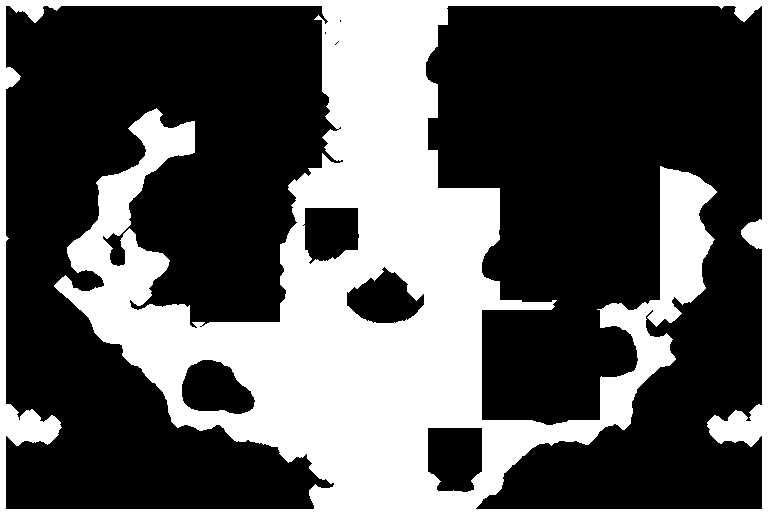
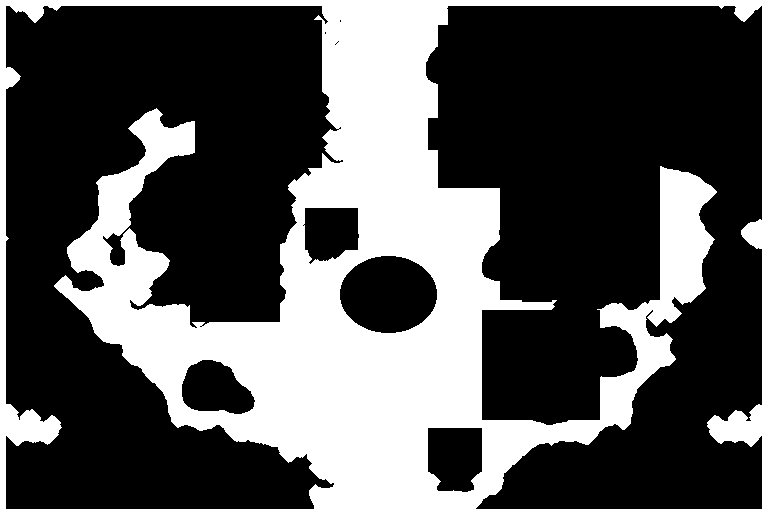
Tutorial en la mazmorra; fuente; visita; móvil y PC

Changed region(s): [[0.4375, 0.4971, 0.5938, 0.6524]]

diff --git a/client/js/game.js b/client/js/game.js
@@ -431,7 +431,8 @@ async function tutorial(skipAsk = false) {
   // 7) entrada a las mazmorras
   await tourWalk(384, 450); tourFace(0, 1);
   await tourSay(['Y aquí termina el recorrido. Por este sendero se sale a explorar las mazmorras.',
-                 'Empieza por el Bosque Frondoso. Cada 10 pisos podrás decidir si sigues adelante o vuelves.',
+                 'Empieza por el Campo de Entrenamiento: es la mazmorra para los nuevos. Cinco pisos… y al final, una sorpresa. ¡Ejem!',
+                 'Después vendrá el Bosque Frondoso. En las mazmorras largas, cada 10 pisos podrás decidir si sigues adelante o vuelves.',
                  `Si tienes dudas, búscame en el gremio, junto al tablón. ¡Espero mucho de ti, ${user.name}! ¡Por el honor del gremio!`]);
   // Chatot vuelve al gremio caminando
   if (state.tour && !state.tour.skip) { state.tour.trail = []; state.tour.follow = false; const g = state.tour.guide; state.tour.noFollow = true; await tourWalkAlone(384, 20); }
@@ -852,7 +853,7 @@ function restoreFloor(w) {
   state.dungeon = { ...w.dungeon, tiles: w.dungeon.tiles.map(r => [...r].map(c => c.charCodeAt(0) - 48)) };
   Object.assign(state, { enemies: w.enemies || [], groundItems: w.groundItems || [], npcs: w.npcs || [], monsterHouse: w.monsterHouse, shop: w.shop, weather: w.weather || 'none', era: w.era || def.id });
   state.seen = (w.seen || []).map(r => [...r].map(c => c === '1'));
-  showCard(def.name, `B${state.floor}F`); setTimeout(updateDungeonMusic, 0);
+  showCard(def.name, `B${state.floor}F`); setTimeout(updateDungeonMusic, 0); setTimeout(() => dungeonTips(), 1200);   // (tras el cartel del piso)
   updateVisibility(); render(); say('Continúas la exploración donde la dejaste.');
 }
 const runSnapshot = () => ({ where: floorSnapshot(), playMs: state.run?.playMs || 0, floor: state.floor, player: state.player, team: state.team, inventory: state.inventory, runPokes: state.runPokes, missions: state.missions, earnedMD: state.earnedMD, recruitedLegendaries: state.recruitedLegendaries, lostRecruits: state.lostRecruits, bondedLost: state.bondedLost, turn: state.turn });
@@ -1099,6 +1100,40 @@ async function endRun(outcome) {
 
 // =====================================================================
 // MAZMORRA
+// ---------- tutorial en la mazmorra: la voz de Chatot, desde algún lugar del Campo de Entrenamiento ----------
+// Un consejo cada vez, en el momento justo y una sola vez por cuenta (se guardan con las escenas vistas).
+function dungeonTips(retry = 0) {
+  if (state.scene !== 'dungeon' || state.dungeonDef?.id !== 'entrenamiento' || !state.player || state.dead || window.__mmFast) return;
+  if (state.dialog || state.menu || state.busy || state.resolving || state.dcut) { if (retry < 12) setTimeout(() => dungeonTips(retry + 1), 400); return; }   // ocupado (el cartel del piso…): en un momento
+  const seen = new Set(meta.scenes || []), p = state.player, touch = document.body.classList.contains('touch-on');
+  const K = touch ? { move: 'la cruceta', a: 'A', l: 'L', menu: 'X' } : { move: 'las flechas', a: 'Z', l: 'Q', menu: 'S' };
+  const stairsSeen = () => { const s = state.dungeon.stairs; return s && state.seen?.[s.y]?.[s.x]; };
+  const TIPS = [
+    { id: 'tip-mover', when: () => state.floor === 1, pages: [
+      { who: '', text: '(Se oye la voz de Chatot, desde algún lugar de la mazmorra…)' },
+      { mood: 'Happy', text: `¡Recluta! ¿Me oyes? Muévete con ${K.move} y explora el piso hasta dar con la escalera.` },
+      { mood: 'Normal', text: 'Cada piso es distinto. El mapa de la esquina se va dibujando a medida que exploras.' }] },
+    { id: 'tip-enemigo', when: () => state.enemies.some(e => e.hp > 0 && isVisibleNow(e.x, e.y)), pages: [
+      { mood: 'Surprised', text: '¡Un Pokémon salvaje! Ponte delante y pulsa ' + K.a + ' para darle un golpe normal.' },
+      { mood: 'Inspired', text: `Tus movimientos son más fuertes: mantén ${K.l} y pulsa ${K.a}, B, X o Y (los tienes en el panel). Eso sí, gastan PP.` },
+      { mood: 'Normal', text: 'Y cuidado: ¡ellos también atacan! Cada vez que haces algo, ellos hacen algo.' }] },
+    { id: 'tip-escalera', when: () => stairsSeen(), pages: [
+      { mood: 'Happy', text: '¡Esa es la escalera! Ponte encima y elige «Bajar» para pasar al siguiente piso.' }] },
+    { id: 'tip-objeto', when: () => (state.inventory?.length || 0) > (state.tipsInv0 ?? Infinity), pages: [
+      { mood: 'Happy', text: `¡Has recogido algo! Para usarlo, abre el menú con ${K.menu} y entra en «Bolsa».` }] },
+    { id: 'tip-ps', when: () => p.hp <= p.maxHp / 2, pages: [
+      { mood: 'Worried', text: '¡Cuidado, Recluta! Si te quedas sin PS, vuelves al gremio sin terminar la exploración.' },
+      { mood: 'Normal', text: `Cómete una Baya Aranja: menú (${K.menu}) → Bolsa → Baya Aranja → Comer. ¿Ves? Para algo te las di.` }] },
+    { id: 'tip-barriga', when: () => state.floor >= 2, pages: [
+      { mood: 'Normal', text: 'Una cosa más: la barriga baja a medida que andas. Si se vacía, empezarás a perder PS.' },
+      { mood: 'Happy', text: 'Las Manzanas la llenan. ¡No las desperdicies, que no crecen en los árboles! … Bueno, sí que crecen en los árboles.' }] },
+  ];
+  if (state.tipsInv0 == null || state.tipsFloor !== state.floor) { state.tipsInv0 = state.inventory?.length || 0; state.tipsFloor = state.floor; }
+  const tip = TIPS.find(t => !seen.has(t.id) && t.when()); if (!tip) return;
+  (meta.scenes ||= []).push(tip.id); api('/scene/seen', { id: tip.id }).catch(() => {});
+  openDialog(tip.pages.map(pg => pg.who === '' ? pg : { who: 'Chatot', sp: 'chatot', mood: pg.mood || 'Normal', text: pg.text }), () => setTimeout(() => dungeonTips(10), 300));
+}
+
 // ---------- escenas en la mazmorra (el jefe del Campo de Entrenamiento) ----------
 const dwait = ms => window.__mmFast ? Promise.resolve() : new Promise(r => setTimeout(r, ms));
 const talk = pages => window.__mmFast ? Promise.resolve() : new Promise(res => openDialog(pages, res));   // (en modo rápido, sin diálogos)
@@ -1230,7 +1265,7 @@ function newFloor() {
   setTimeout(updateDungeonMusic, 0);   // tema del piso (tras montar la planta)
   for (const m of [state.player, ...state.team]) if (m) { m.stages = {}; m.speed = 0; m.speedTurns = 0; } // los cambios de estadísticas (y de velocidad) duran lo que dura el piso
   state.freeActs = 0;
-  showCard(def0.name, `B${state.floor}F`);
+  showCard(def0.name, `B${state.floor}F`); setTimeout(() => dungeonTips(), 1200);   // consejos del Campo de Entrenamiento (tras el cartel)
   state.rng = makeRng(floorSeed(state.run.seed, state.floor));
   const built = buildFloor(state.rng, state.dungeonDef, state.floor, state.missions, state.flags, state.run.seed);
   state.era = built.dungeon.eraId || state.dungeonDef.id; state.weather = built.weather || 'none';
@@ -2082,6 +2117,7 @@ async function resolveTurn(playerActed) {
     state.turnsSinceSave = (state.turnsSinceSave || 0) + 1;
     if (state.turnsSinceSave >= 10) { state.turnsSinceSave = 0; autosave('turns'); }   // guardado automático cada 10 turnos
   } finally { state.resolving = false; }
+  setTimeout(() => dungeonTips(10), 0);   // ¿toca algún consejo del Campo de Entrenamiento?
 }
 // Contadores de velocidad (los cambios duran unos turnos) e Impulso (+1 de velocidad cada 10 turnos)
 function speedTick() {
@@ -2501,7 +2537,16 @@ function applyScale() {
   render();
 }
 canvas.width = LOG.w; canvas.height = LOG.h;
-window.addEventListener('resize', () => { document.body.classList.toggle('log-inside', logInside()); if (state.player && document.body.classList.contains('in-game')) applyScale(); }); // no dibujar el juego antes de entrar
+window.addEventListener('resize', () => { document.body.classList.toggle('log-inside', logInside()); if (state.player && document.body.classList.contains('in-game')) applyScale(); });
+// la cabecera y el registro cambian de alto (en la mazmorra hay más datos): el juego se reajusta para que todo quepa
+try {
+  let lastH = '';
+  const ro = new ResizeObserver(() => {
+    const h = ['#screen-game header', '#screen-game footer'].map(s => document.querySelector(s)?.offsetHeight || 0).join('/');
+    if (h !== lastH && document.body.classList.contains('in-game')) { lastH = h; applyScale(); }
+  });
+  for (const s of ['#screen-game header', '#screen-game footer']) { const el = document.querySelector(s); if (el) ro.observe(el); }
+} catch {} // no dibujar el juego antes de entrar
 const isVisibleNow = (x, y) => {
   const p = state.player, rm = state.inRoom;
   if (state.dungeon?.arena) return true;

diff --git a/client/css/style.css b/client/css/style.css
@@ -287,10 +287,10 @@ body.touch-on .set-scale { display: none; }
 .settings-panel .set-row, .settings-panel .set-row span { color: #f8f8f8; }
 
 /* nada se selecciona ni se arrastra al hacer clic (o doble clic) en las pantallas del juego; los campos de texto siguen funcionando */
-#screen-auth, #screen-quiz, #screen-scene, #screen-game, .pmd-box, .pmd-menu, header, canvas {
+body, body * {
   user-select: none; -webkit-user-select: none; -webkit-touch-callout: none; -webkit-tap-highlight-color: transparent; }
 img { -webkit-user-drag: none; user-drag: none; user-select: none; -webkit-user-select: none; }
-input, textarea { user-select: text; -webkit-user-select: text; }
+input, textarea, input *, textarea * { user-select: text; -webkit-user-select: text; -webkit-touch-callout: default; }
 
 /* ---- informe tras caer ---- */
 .penalty-report { position: fixed; inset: 0; z-index: 60; display: grid; place-items: center; background: rgba(6, 10, 26, .72); }
